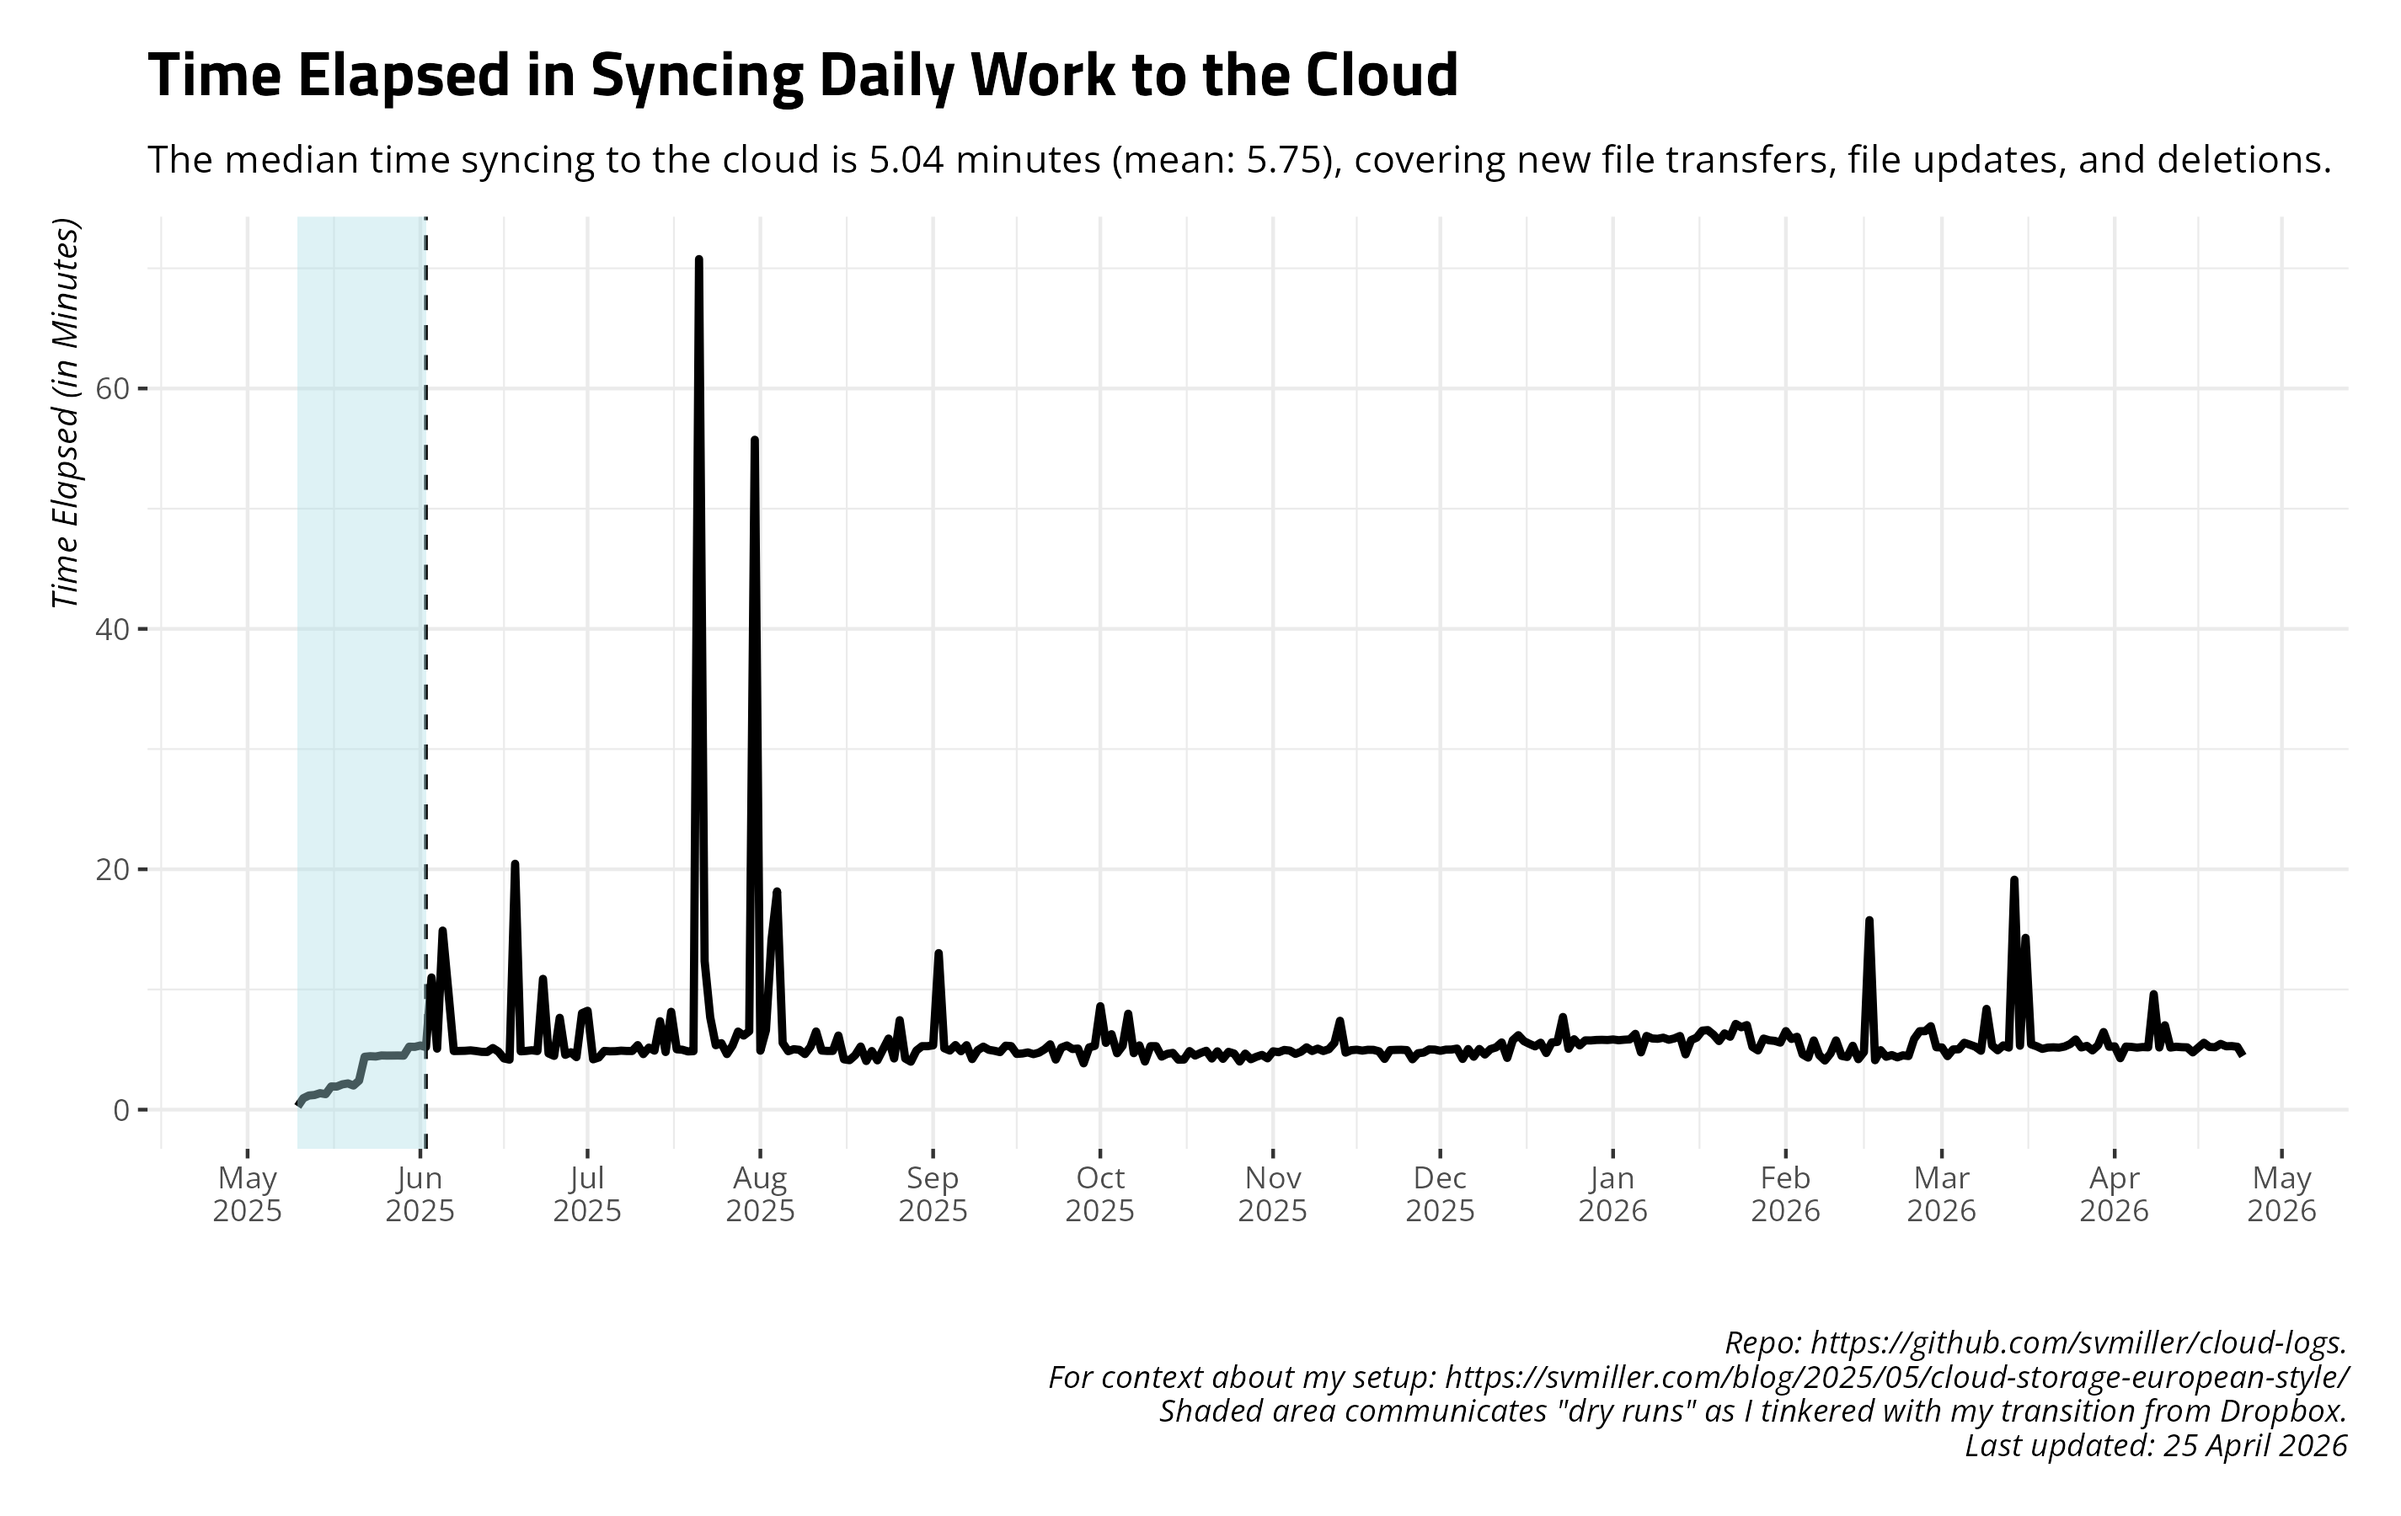
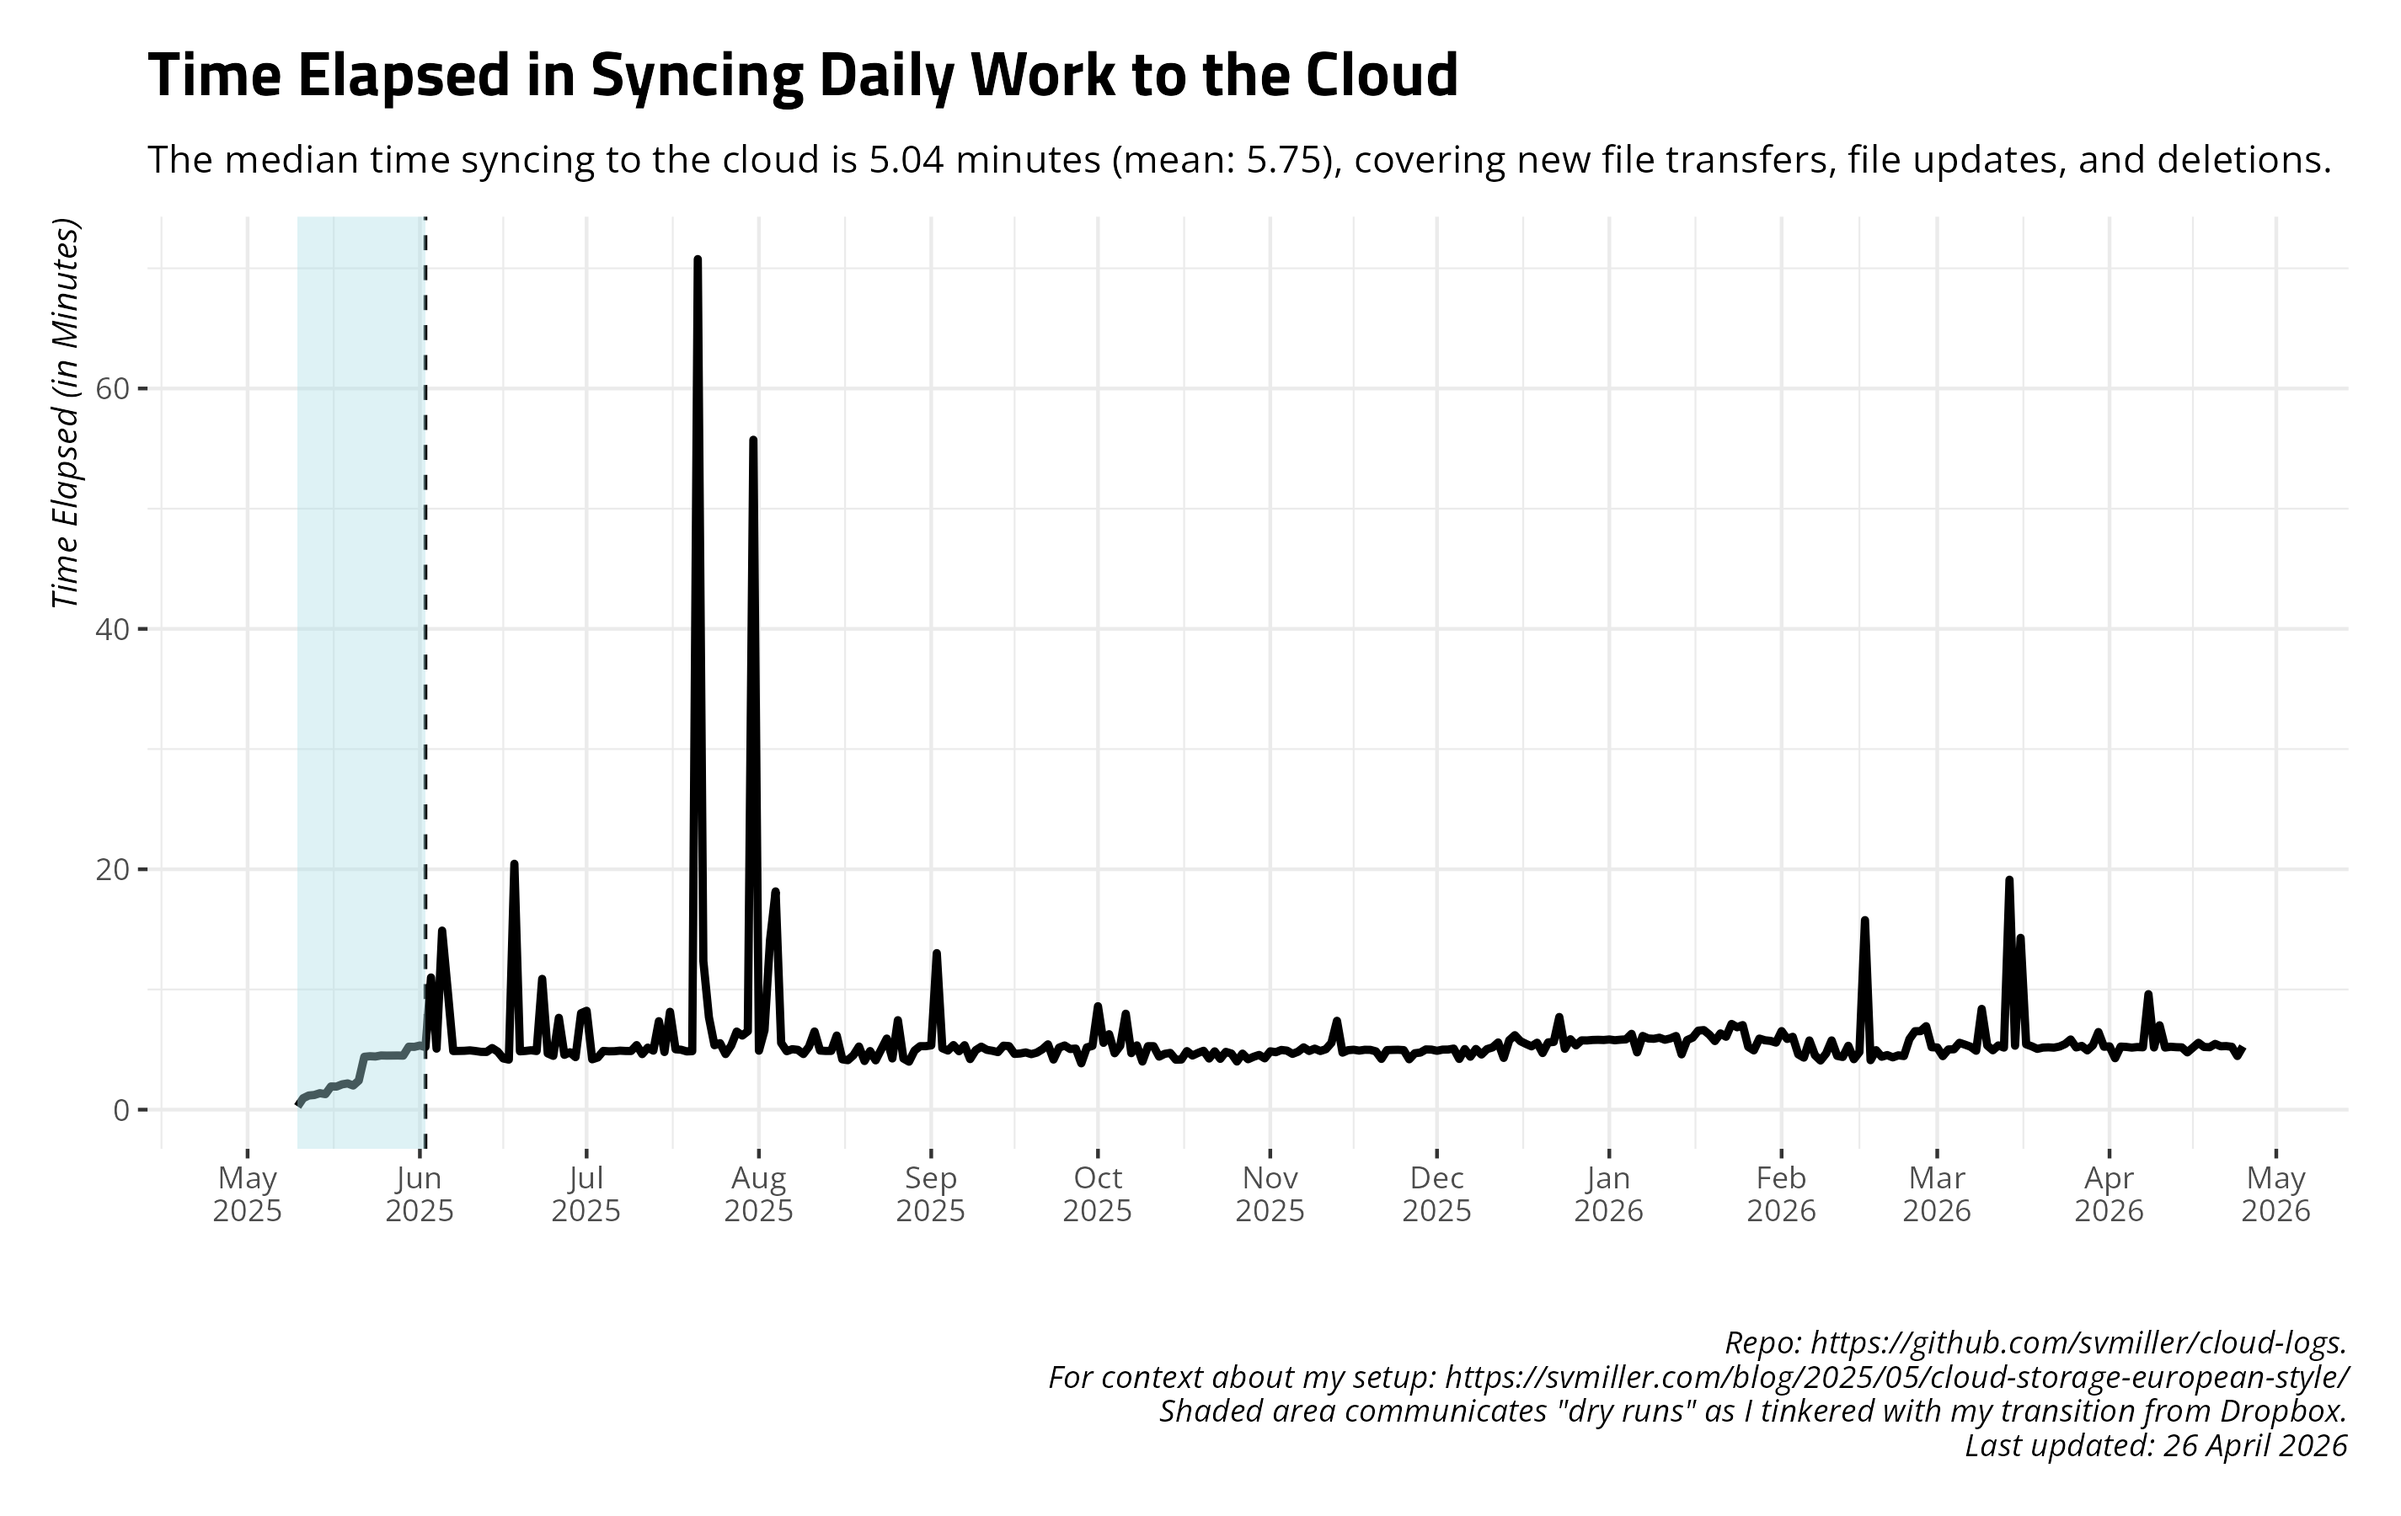
Date: 2026-04-26 09:00:27. Hi mom!

diff --git a/README.md b/README.md
@@ -27,17 +27,17 @@ and uploads to Github.
     #> # A tibble: 14 × 4
     #>    date       ftransfer stransfer   elapsed
     #>    <date>         <dbl> <chr>       <chr>  
-    #>  1 2026-04-11         2 6.212 KiB   5m10.0s
-    #>  2 2026-04-12         9 1.208 MiB   5m14.0s
-    #>  3 2026-04-13         1 7.343 MiB   5m11.9s
-    #>  4 2026-04-14         0 <NA>        5m11.0s
-    #>  5 2026-04-15        62 19.695 MiB  4m46.0s
-    #>  6 2026-04-16         0 <NA>        5m9.8s 
-    #>  7 2026-04-17        89 369.474 KiB 5m33.8s
-    #>  8 2026-04-18         0 <NA>        5m13.0s
-    #>  9 2026-04-19         0 <NA>        5m11.6s
-    #> 10 2026-04-20        37 447.805 KiB 5m28.2s
-    #> 11 2026-04-21        37 48.112 MiB  5m16.4s
-    #> 12 2026-04-22         2 23.825 MiB  5m17.3s
-    #> 13 2026-04-23         0 <NA>        5m13.8s
-    #> 14 2026-04-24        63 494.966 KiB 4m27.8s
+    #>  1 2026-04-12         9 1.208 MiB   5m14.0s
+    #>  2 2026-04-13         1 7.343 MiB   5m11.9s
+    #>  3 2026-04-14         0 <NA>        5m11.0s
+    #>  4 2026-04-15        62 19.695 MiB  4m46.0s
+    #>  5 2026-04-16         0 <NA>        5m9.8s 
+    #>  6 2026-04-17        89 369.474 KiB 5m33.8s
+    #>  7 2026-04-18         0 <NA>        5m13.0s
+    #>  8 2026-04-19         0 <NA>        5m11.6s
+    #>  9 2026-04-20        37 447.805 KiB 5m28.2s
+    #> 10 2026-04-21        37 48.112 MiB  5m16.4s
+    #> 11 2026-04-22         2 23.825 MiB  5m17.3s
+    #> 12 2026-04-23         0 <NA>        5m13.8s
+    #> 13 2026-04-24        63 494.966 KiB 4m27.8s
+    #> 14 2026-04-25         0 <NA>        5m15.6s
